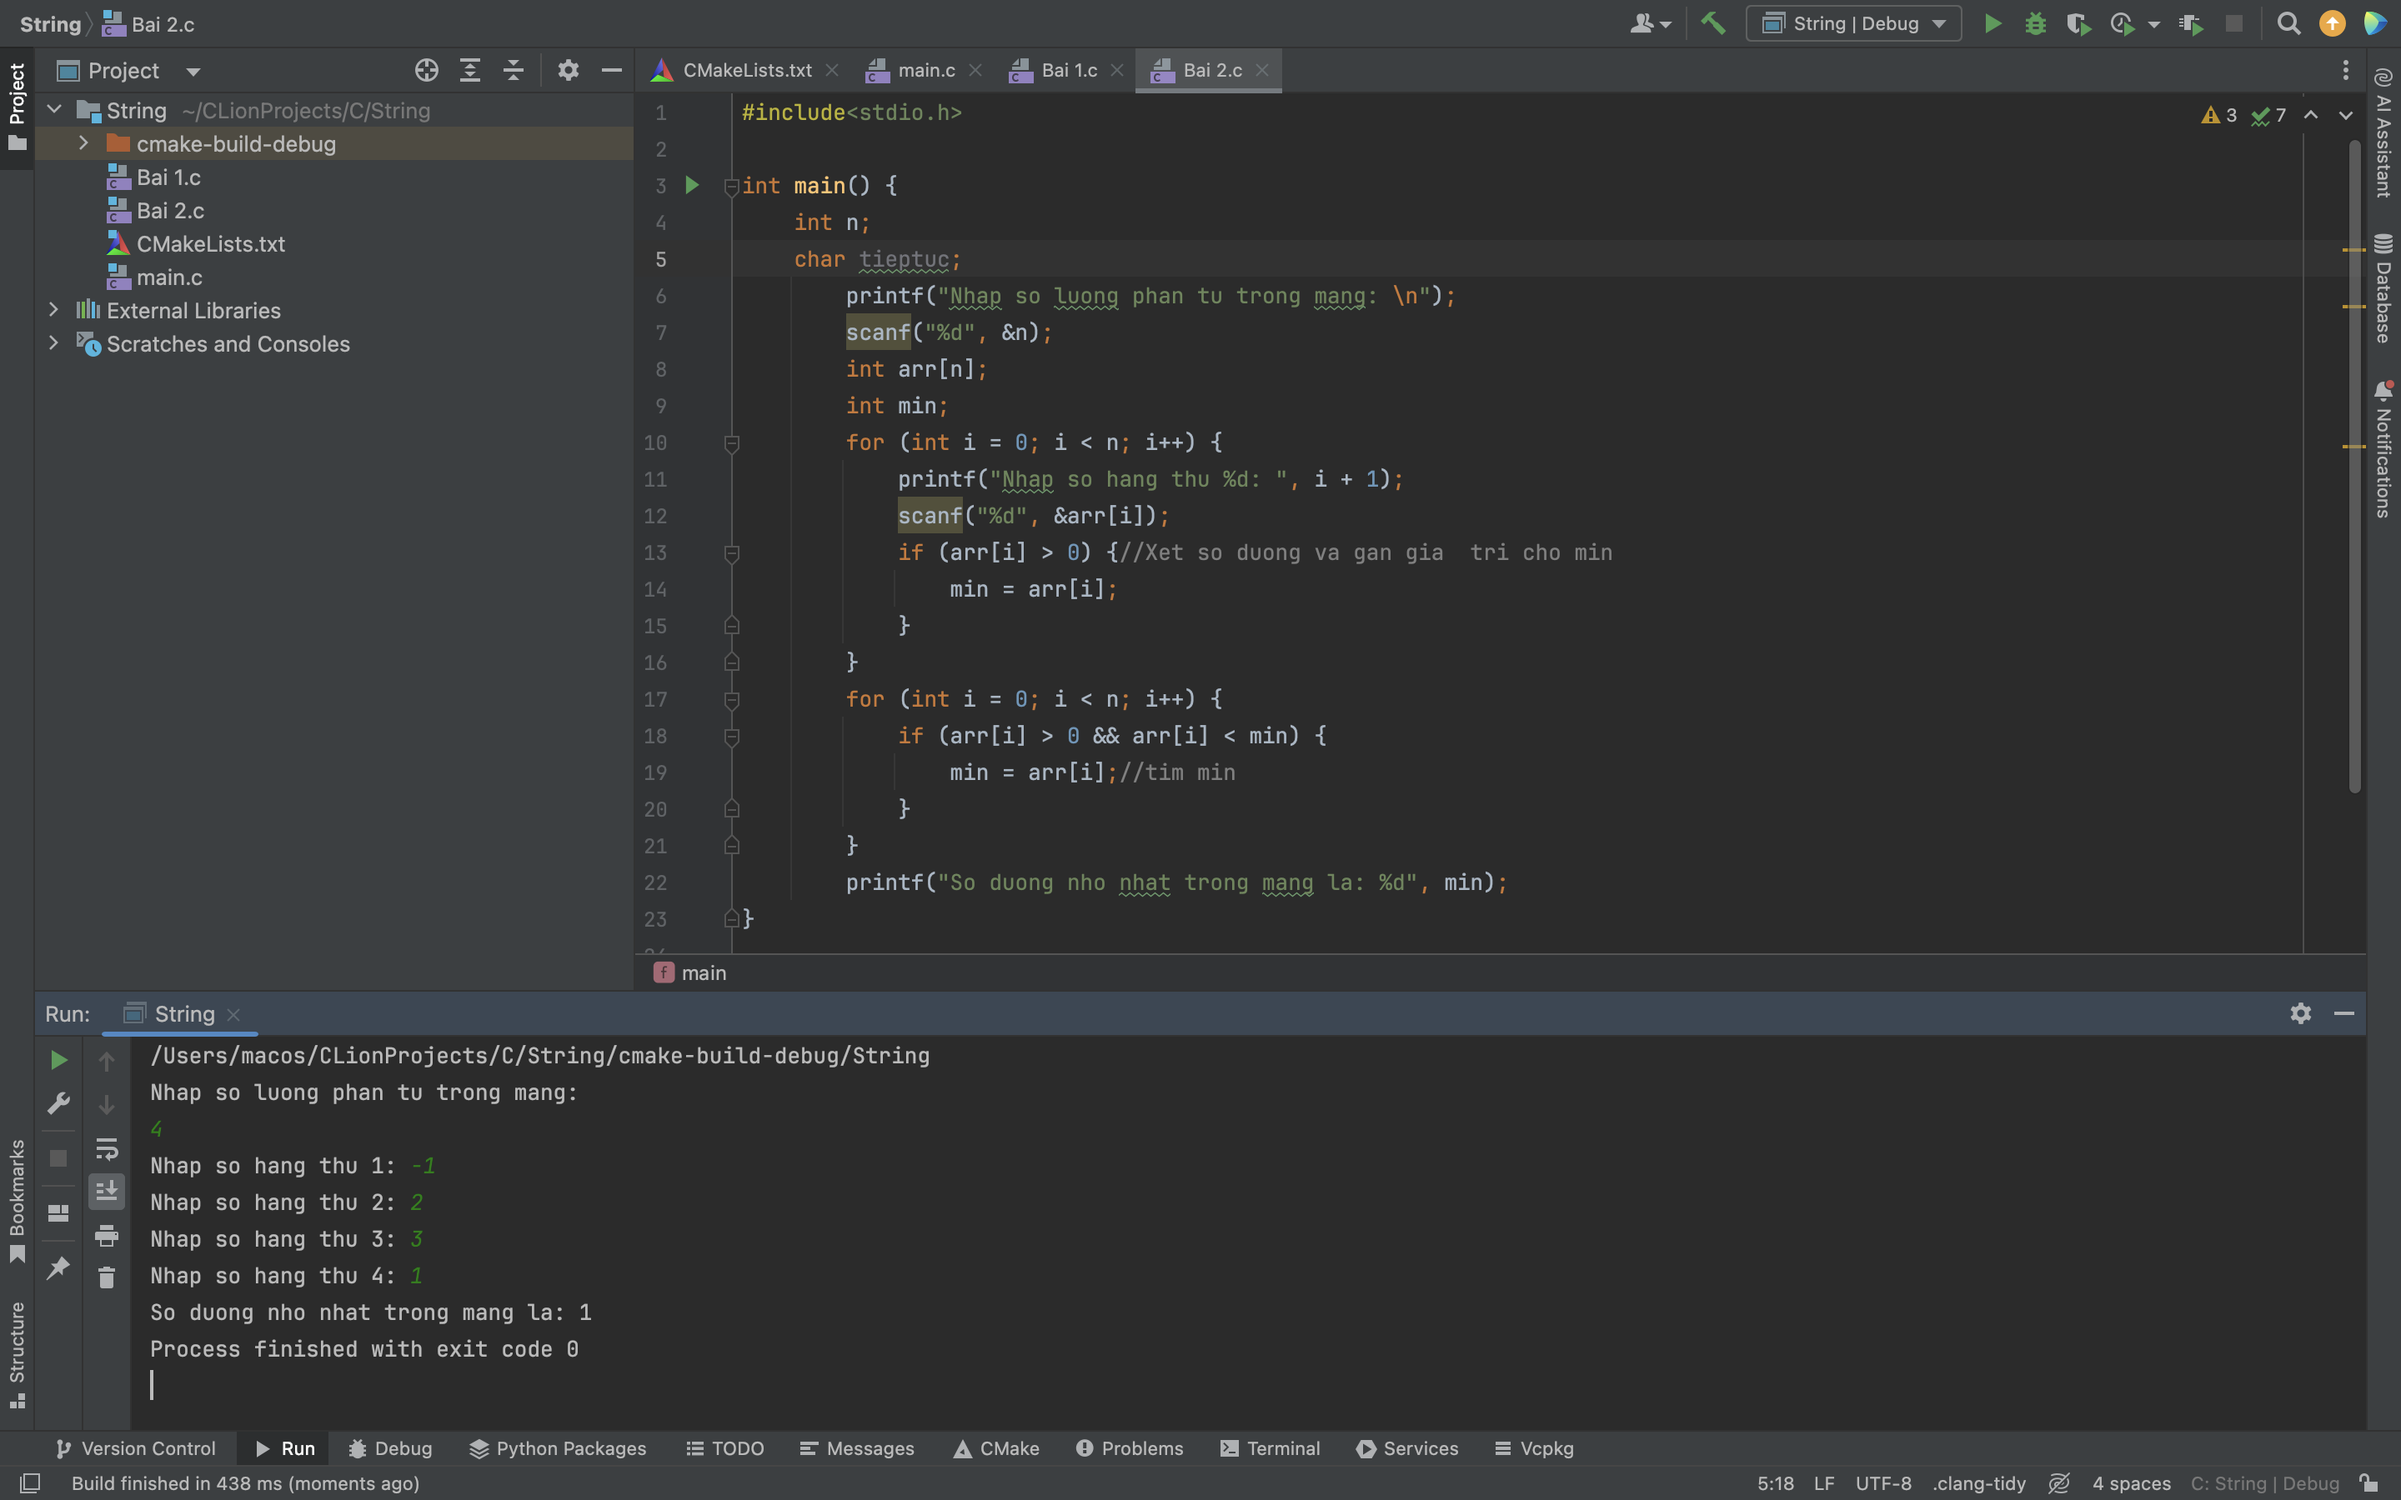
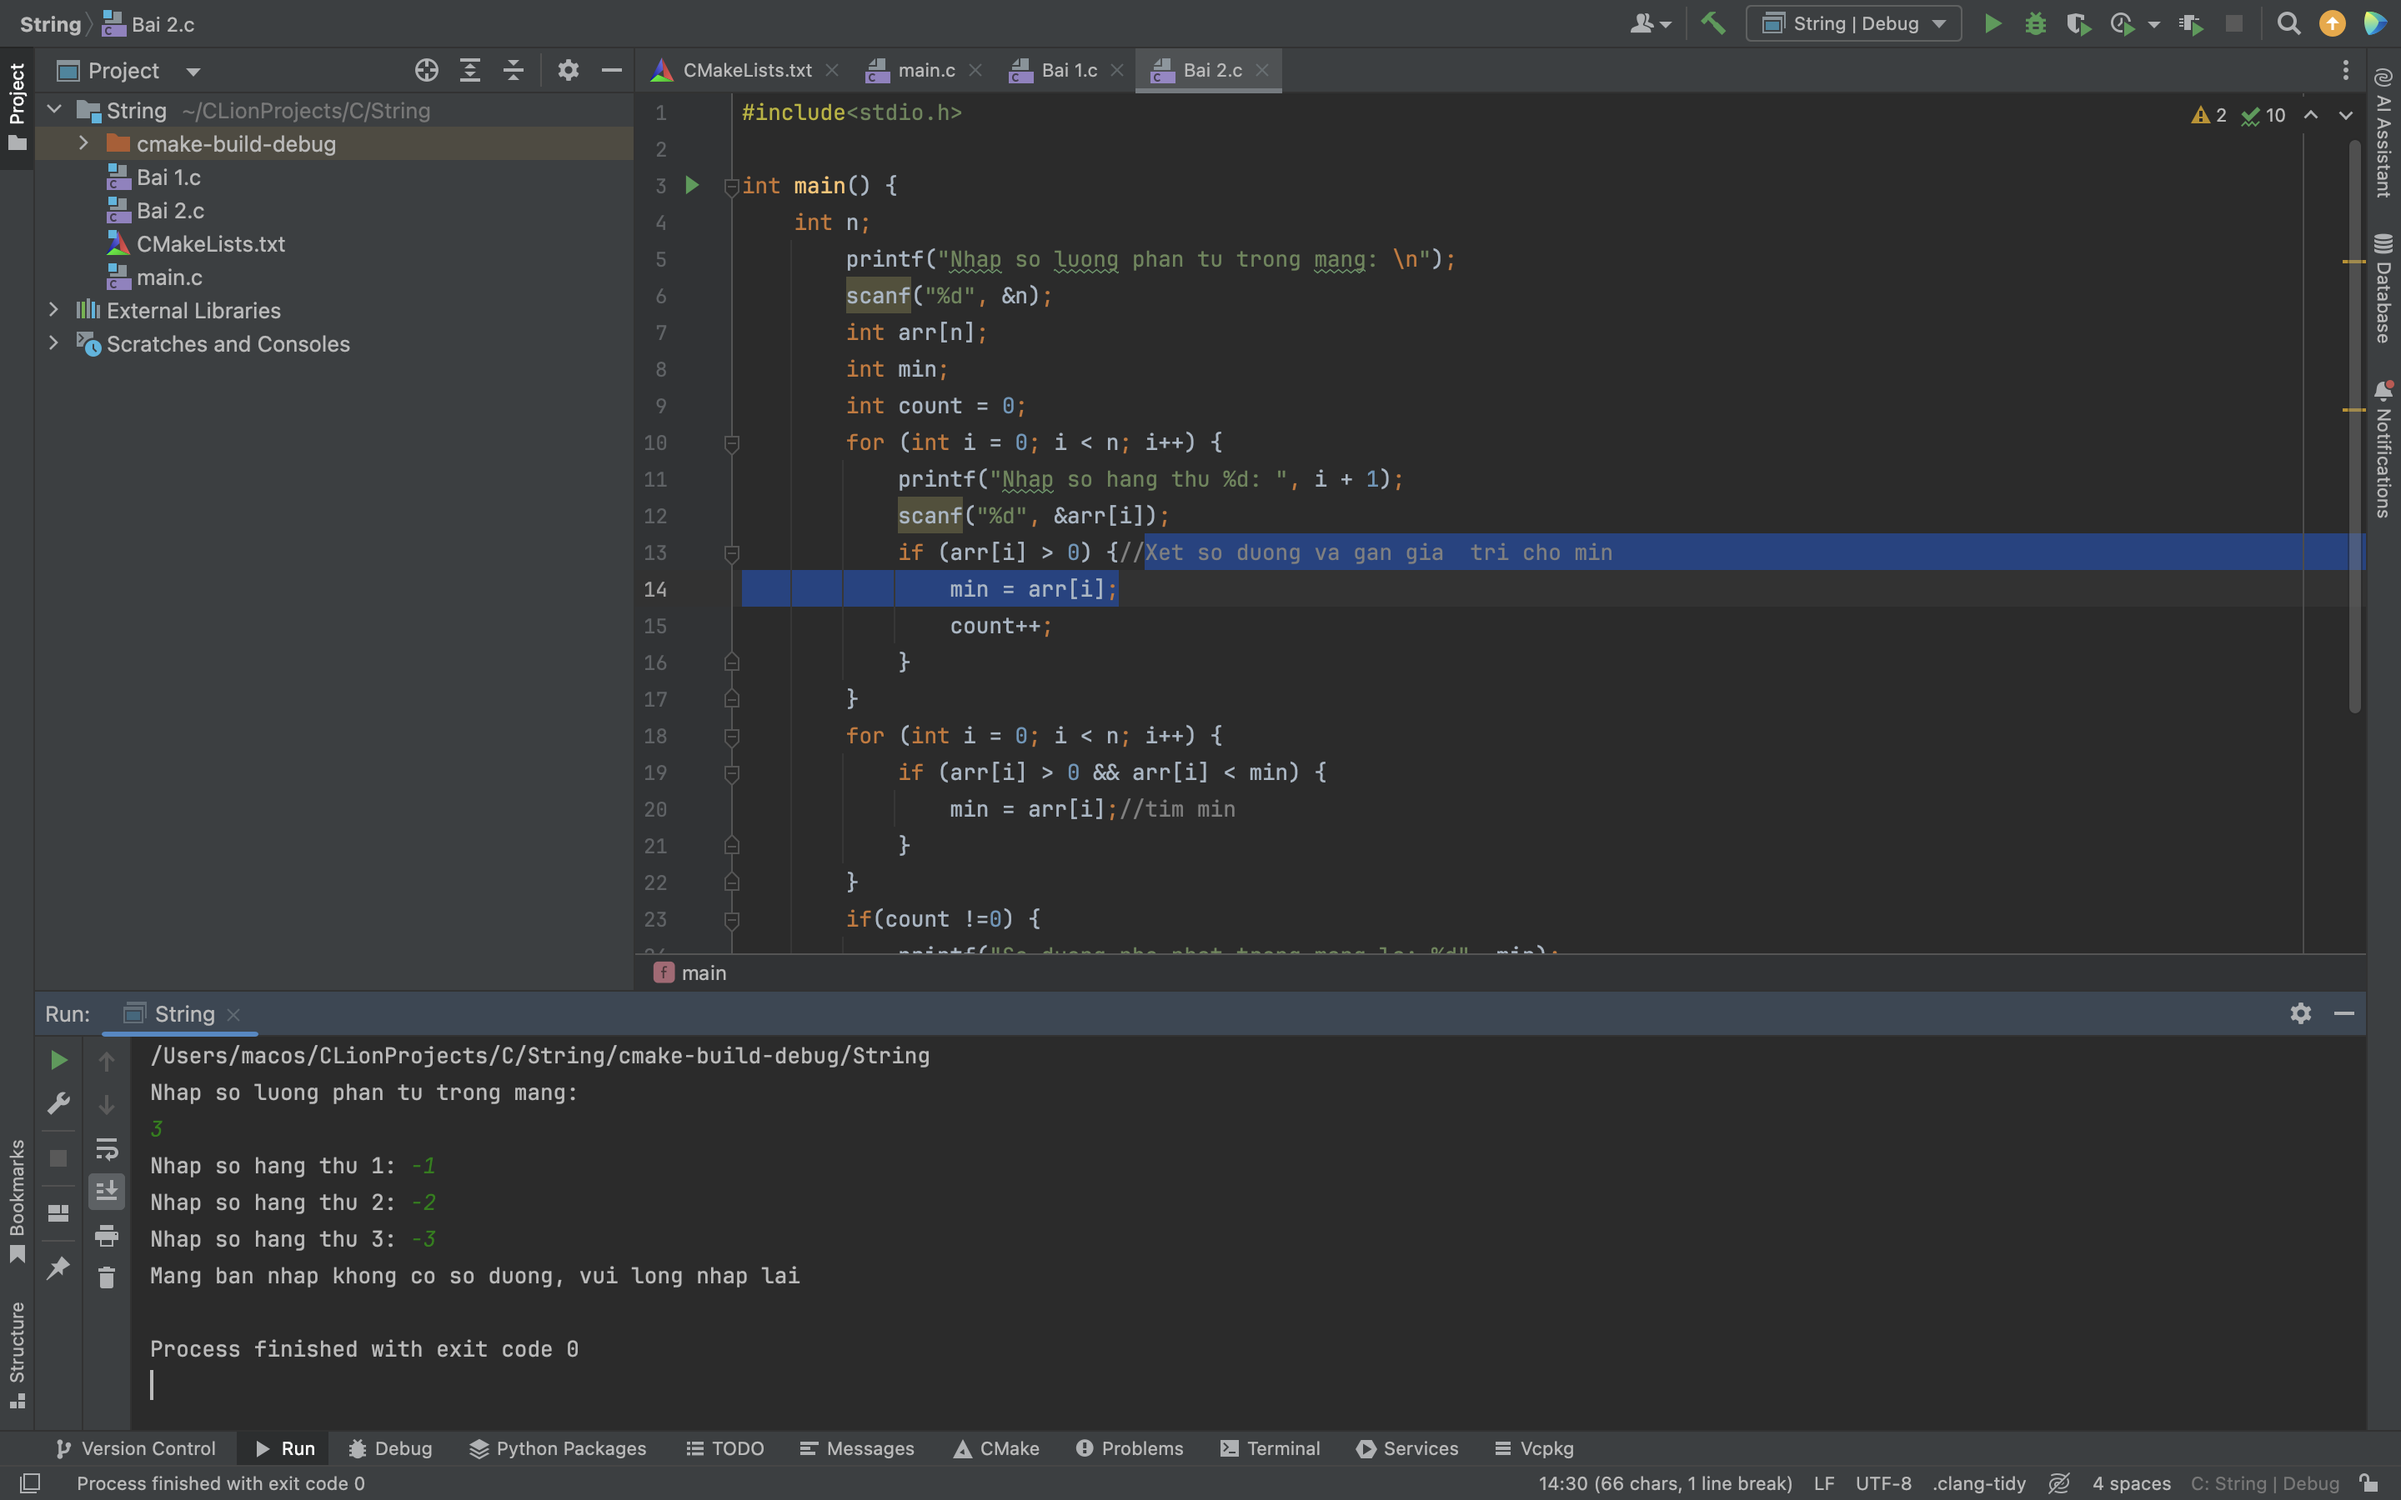
exam

diff --git a/Bai tap C/EXAM/Bai1.md b/Bai tap C/EXAM/Bai1.md
@@ -2,17 +2,17 @@
 
 int main() {
     int n;
-    char tieptuc;
-    do {
         printf("Nhap so luong phan tu trong mang: \n");
         scanf("%d", &n);
         int arr[n];
         int min;
+        int count = 0;
         for (int i = 0; i < n; i++) {
             printf("Nhap so hang thu %d: ", i + 1);
             scanf("%d", &arr[i]);
             if (arr[i] > 0) {//Xet so duong va gan gia  tri cho min
                 min = arr[i];
+                count++;
             }
         }
         for (int i = 0; i < n; i++) {
@@ -20,5 +20,8 @@ int main() {
                 min = arr[i];//tim min
             }
         }
-        printf("So duong nho nhat trong mang la: %d", min);
+        if(count !=0) {
+            printf("So duong nho nhat trong mang la: %d", min);
+        }else
+            printf("Mang ban nhap khong co so duong, vui long nhap lai\n");
 }
